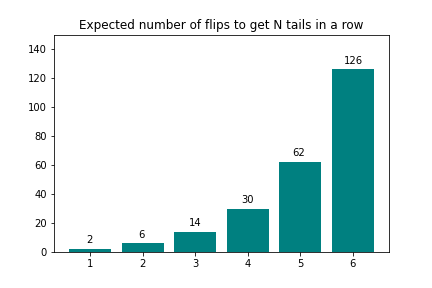
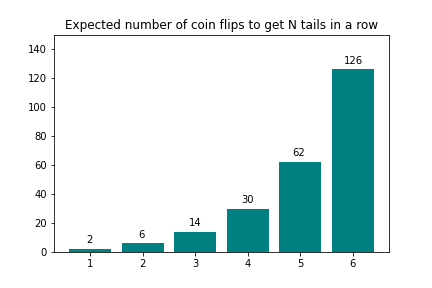
Rebuilt site

Changed region(s): [[0.1505, 0.0625, 0.8727, 0.125]]

diff --git a/post/space-basketball-probability/index.html b/post/space-basketball-probability/index.html
@@ -641,7 +641,7 @@ E = \left(\sum_{k=1}^N \frac{1}{2^k}\right) E + \left( \sum_{k=1}^N \frac{k}{2^k
 &amp;\sum_{k=1}^N kx^k = \frac{(Nx - N - 1)x^{N+1} + x}{(x-1)^2}.
 \end{align*}</p>
 <p>Setting $x = \frac{1}{2}$ and solving for $E$ gives $E = 2^{N+1} - 2$. Hence we should expect to flip on average $2^{N+1} - 2$ coins before getting $N$ consecutive tails.</p>
-<p>As we see the number of flips needed grows rapidly with $N$. Here are the first six values:</p>
+<p>As we see the number of coin flips needed grows rapidly with $N$. Here are the first six values:</p>
 <p><img src="/img/posts/xkcd/coinflips.png" alt=""></p>
 <p>&nbsp;</p>  
 <h3 id="back-to-space-basketball">Back to Space Basketball</h3>
